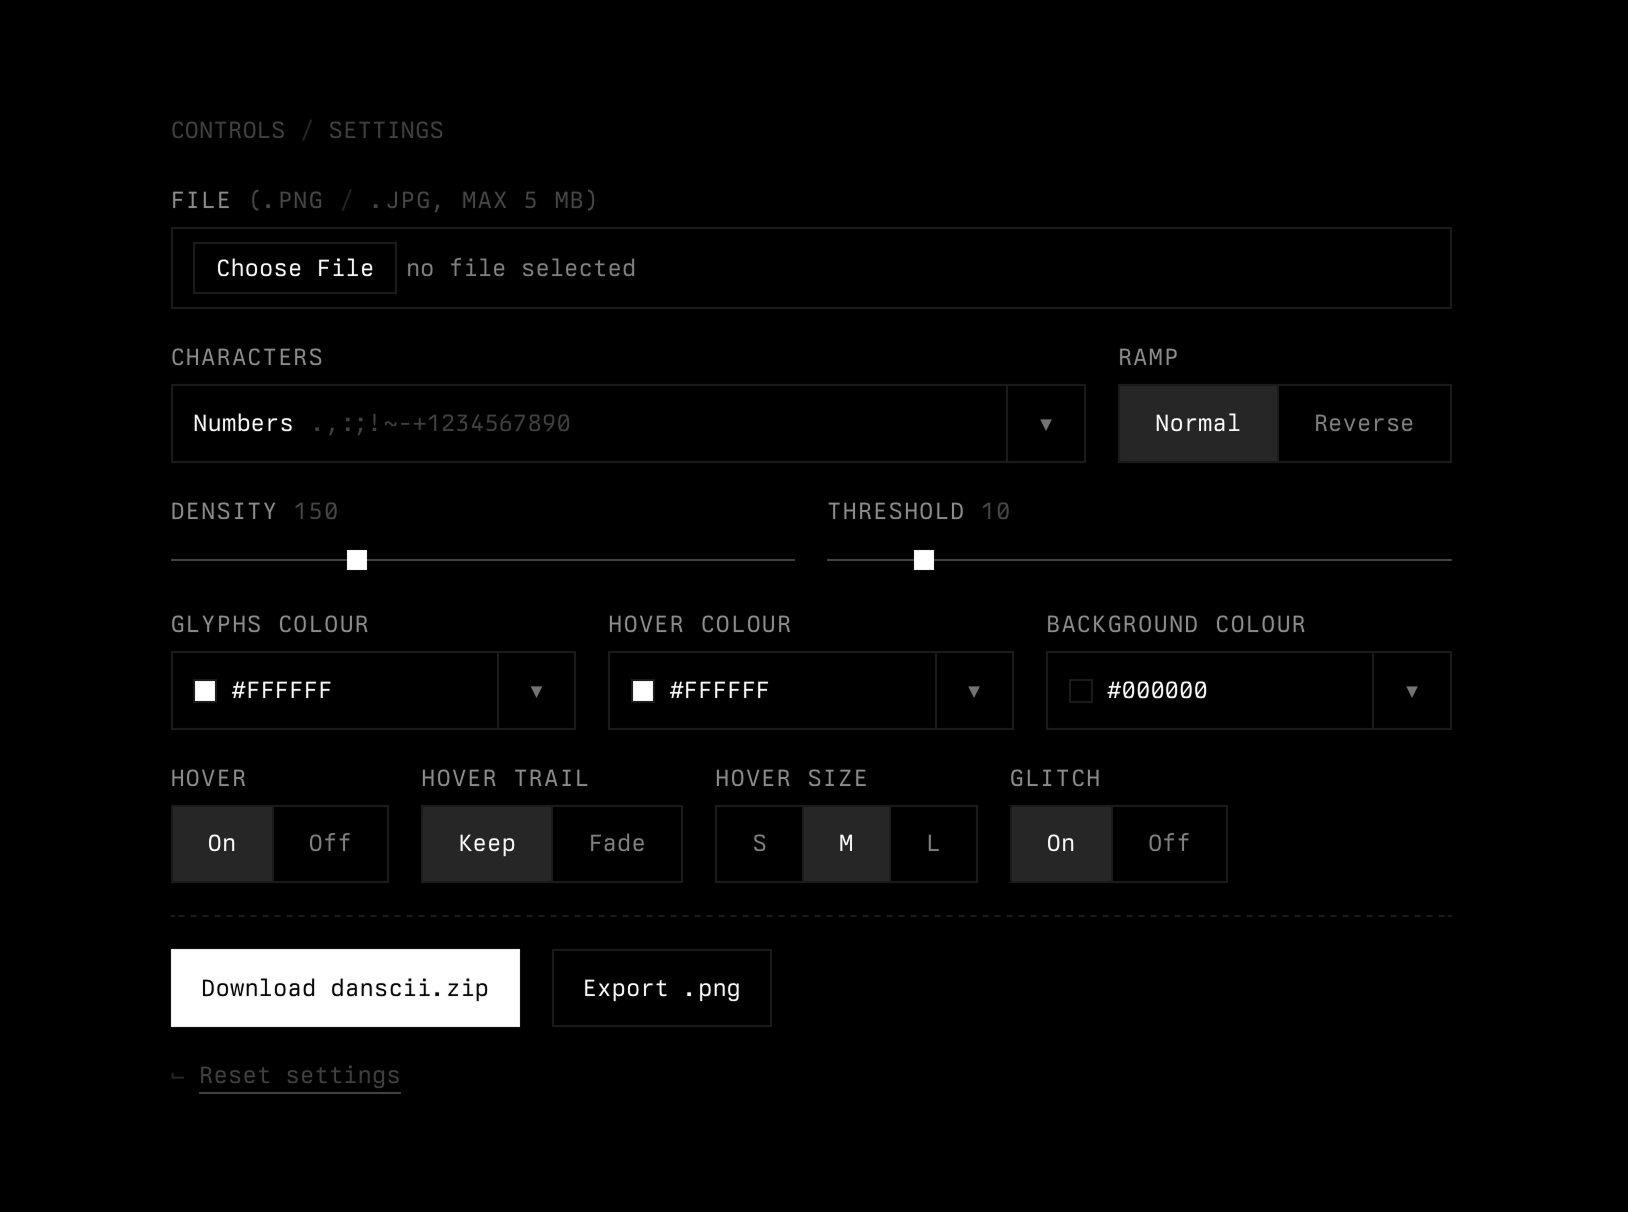
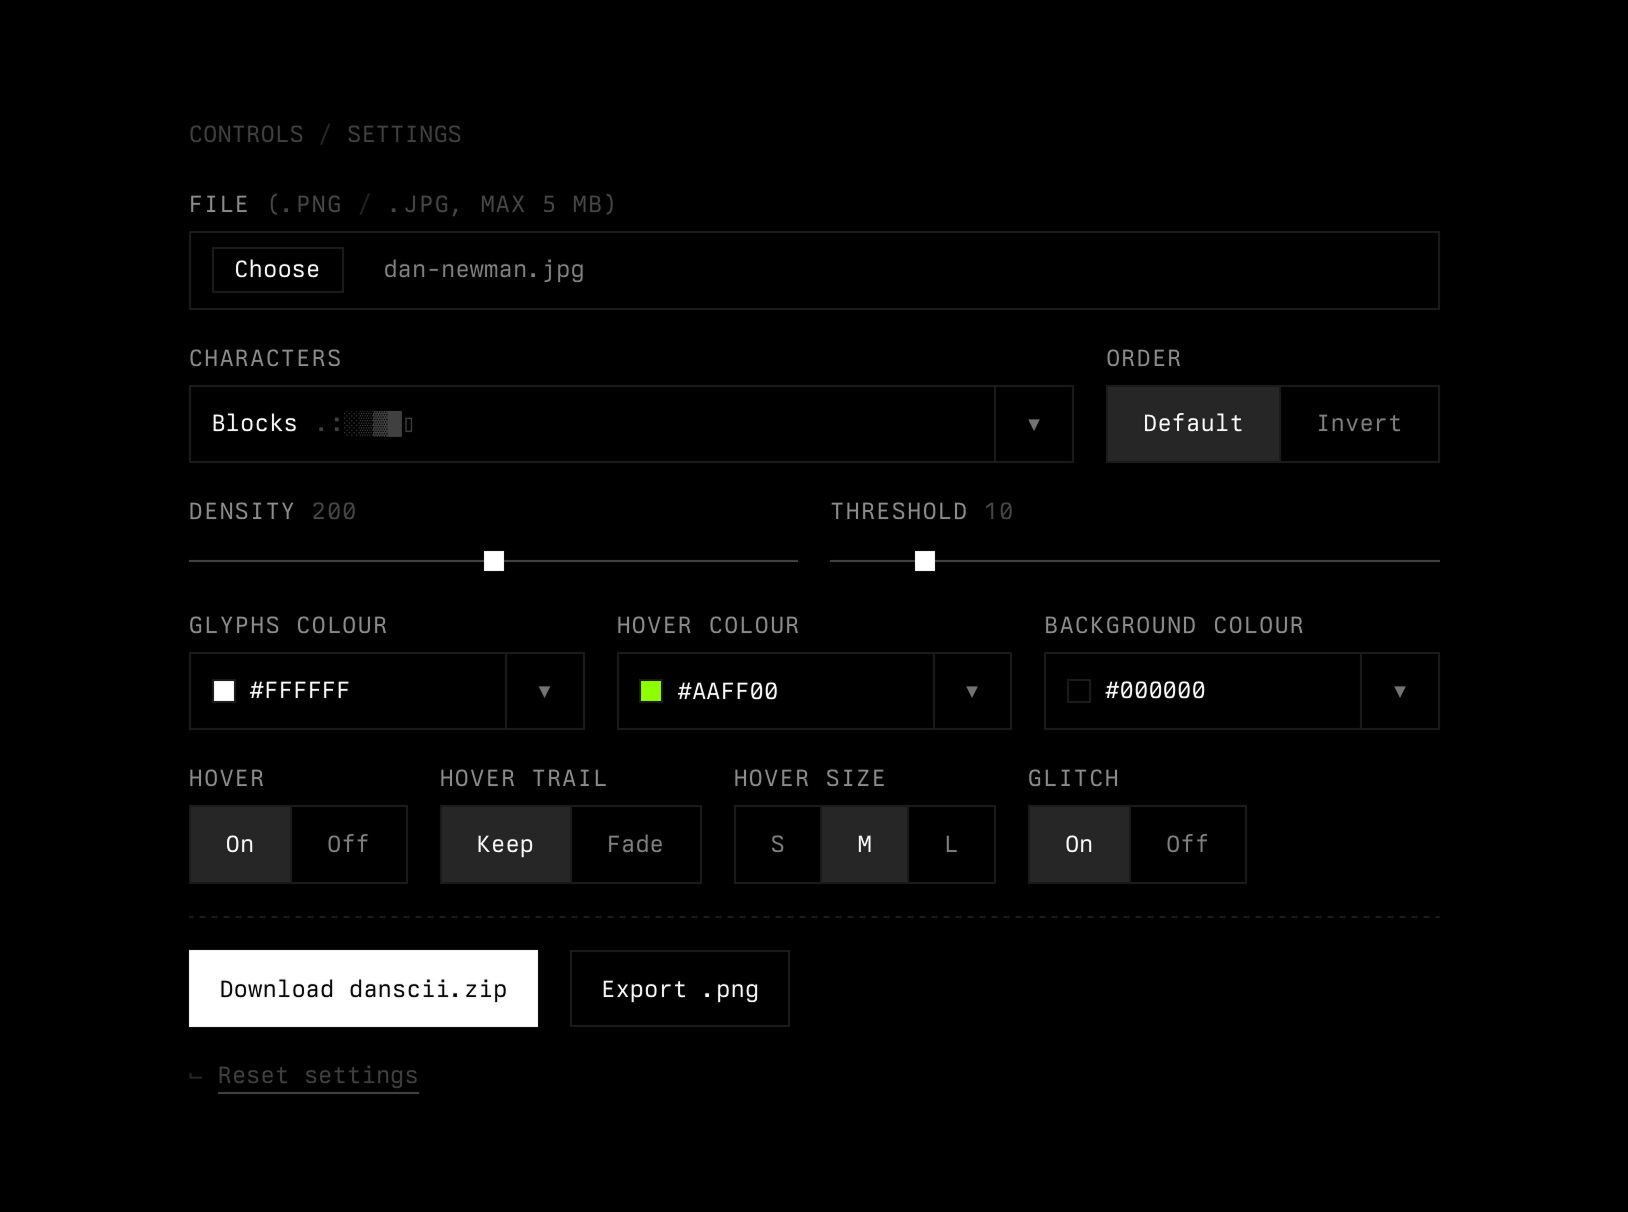
fix: danscii

diff --git a/js/lab/danscii.js b/js/lab/danscii.js
@@ -56,7 +56,7 @@ LabWidgets.danscii = function (mountEl) {
 				if (!art) return;
 				if (isLightMode()) {
 					art.setMode("blue");
-					art.setColors("#ffffff", "#ffffff");
+					art.setColors("#ffffff", "#000000");
 				} else {
 					art.setMode("dark");
 				}

diff --git a/js/ascii-map.js b/js/ascii-map.js
@@ -53,7 +53,7 @@
 			art.setColors("#ffffff", "#ffffff");
 		} else {
 			art.setMode("dark");
-			art.setColors("#ffffff", "#aaff00");
+			art.setColors("#ffffff", "#ffffff");
 		}
 	}
 
